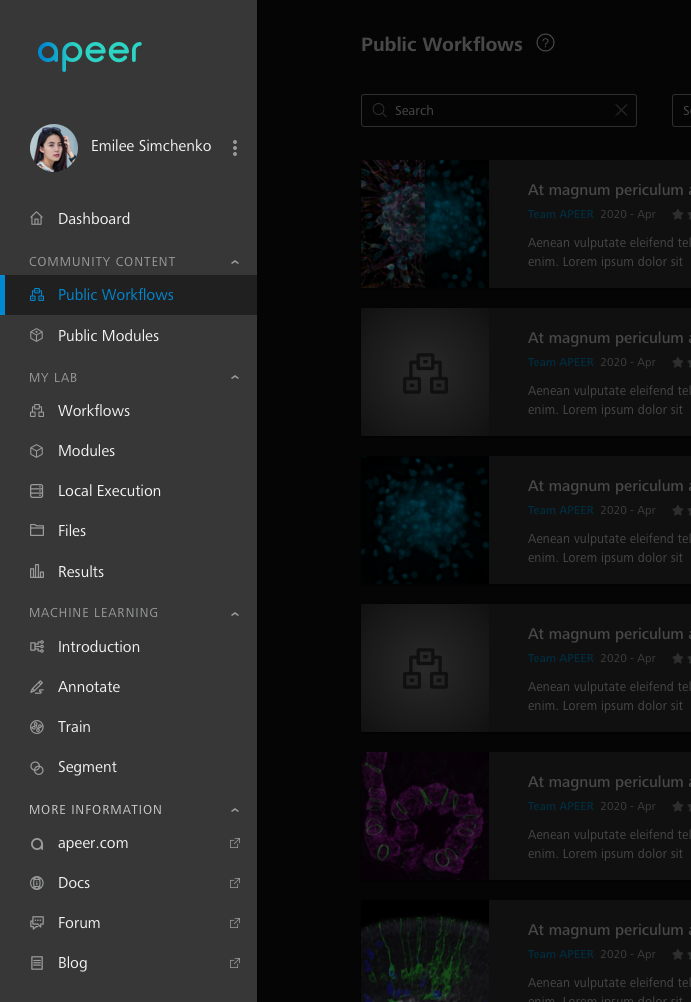
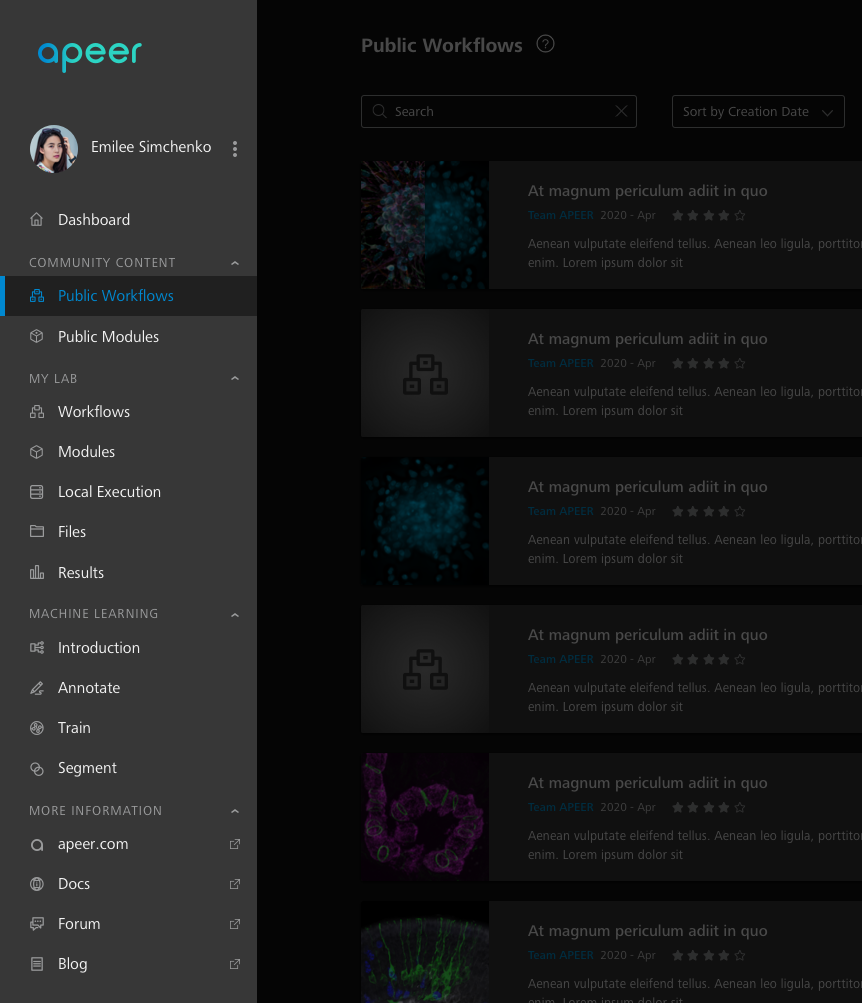
improved the apeer project

diff --git a/apeer.html b/apeer.html
@@ -44,7 +44,7 @@
 
         <style>
             .apeer-hero-image{
-              background-image: url("img/apeer-all-screens-blur.png");
+              background-image: url("img/apeer-hero-img.png");
               height: 80vh;
               background-color: aliceblue;
               background-position: center;
@@ -163,7 +163,7 @@
                 <div class="col-md-5">
                     <br>
                     <p><small>INTERACTIVE PROTOTYPE</small></p>
-                    <video autoplay loop style="filter: blur(8px);">
+                    <video autoplay loop style="filter: blur(2px);">
                         <source src="img/wf engine 0806.mp4" type="video/mp4">
                       Your browser does not support the video tag.
                       </video>
@@ -223,16 +223,16 @@
                     </div>
 
                     <div class="col-md-3">
-                        <img src="img/apeer navmenu iteration 1.png" style="width: 100%; margin: 10px;" alt="">
+                        <img src="img/apeer navmenu iteration 1.png" style="margin: 4px;" alt="">
                     </div>
                     <div class="col-md-3">
-                        <img src="img/apeer navmenu iteration 2.png" style="width: 100%; margin: 10px;" alt="">
+                        <img src="img/apeer navmenu iteration 2.png" style="margin: 4px;" alt="">
                     </div>
                     <div class="col-md-3">
-                        <img src="img/apeer navmenu iteration 4.png" style="width: 100%; margin: 10px;" alt="">
+                        <img src="img/apeer navmenu iteration 4.png" style="margin: 4px;" alt="">
                     </div>
                     <div class="col-md-3">
-                        <img src="img/apeer navmenu iteration 5.png" style="width: 100%; margin: 10px;" alt="">
+                        <img src="img/apeer navmenu iteration 5.png" style="margin: 4px;" alt="">
                     </div>
                 </div>     
                 <div class="row">
@@ -291,11 +291,11 @@
                         <h2 id="apeer-icons">Case 2. Design a Set of New Icons</h2>
                         <p>I redesigned <b>all</b> the icons from the current Apeer platform. Now they look like one family. I documented them in the sketch library and uploaded on Zeplin to align with the developers.</p><br>
                     </div>
-                    <div class="col-md-8 offset-md-2">
+                    <div class="col-md-10 offset-md-1">
                         <p><small>BEFORE</small></p>
                         <img src="img/apeer-icons-before.png" style="box-shadow:0 2px 3px 1px  rgba(0, 0, 0, 0.096); margin-bottom: 40px;" alt="">
                     </div>
-                    <div class="col-md-8 offset-md-2">
+                    <div class="col-md-10 offset-md-1">
                         <p><small>AFTER</small></p>
                         <img src="img/apeer-icons.png" style="box-shadow:0 2px 3px 1px  rgba(0, 0, 0, 0.096); margin-bottom: 40px;" alt="">
                     </div>
@@ -323,7 +323,25 @@
                         <br>
                     </div>
                     <div class="col-md-6">
-                        <img src="img/apeer-colour-blur.png" alt="">
+                       
+                    </div>
+
+                    <div class="col-md-4">
+                        <p><small>COLOR</small></p>
+                        <img src="img/apeer-Color.png" alt="">
+                    </div>
+                    <div class="col-md-4">
+                        <p><small>STATE</small></p>
+                        <img src="img/apeer-States.png" alt="">
+                    </div>
+                    <div class="col-md-4">
+                        <p><small>TYPO</small></p>
+                        <img src="img/apeer-Typography.png" alt="">
+                    </div>
+                    <div class="col-md-10 offset-md-1">
+                        <br><br><br>
+                        <p><small>COLLABORATION USING ZEPLIN</small></p>
+                        <img src="img/apeer-zeplin-color.png" alt="">
                     </div>
                 </div>
                 <div class="row">
@@ -350,7 +368,7 @@
                         <br>
                     </div>
                     <div class="col-md-12">
-                        <p><small>NEW STYLES APPLIED ON SCREENS</small></p>
+                        <p><small>NEW STYLES APPLIED ON SCREENS AND REDESIGN</small></p>
                         <img src="img/apeer-all-screens-blur.png" alt="">
                     </div>
                 </div>               
